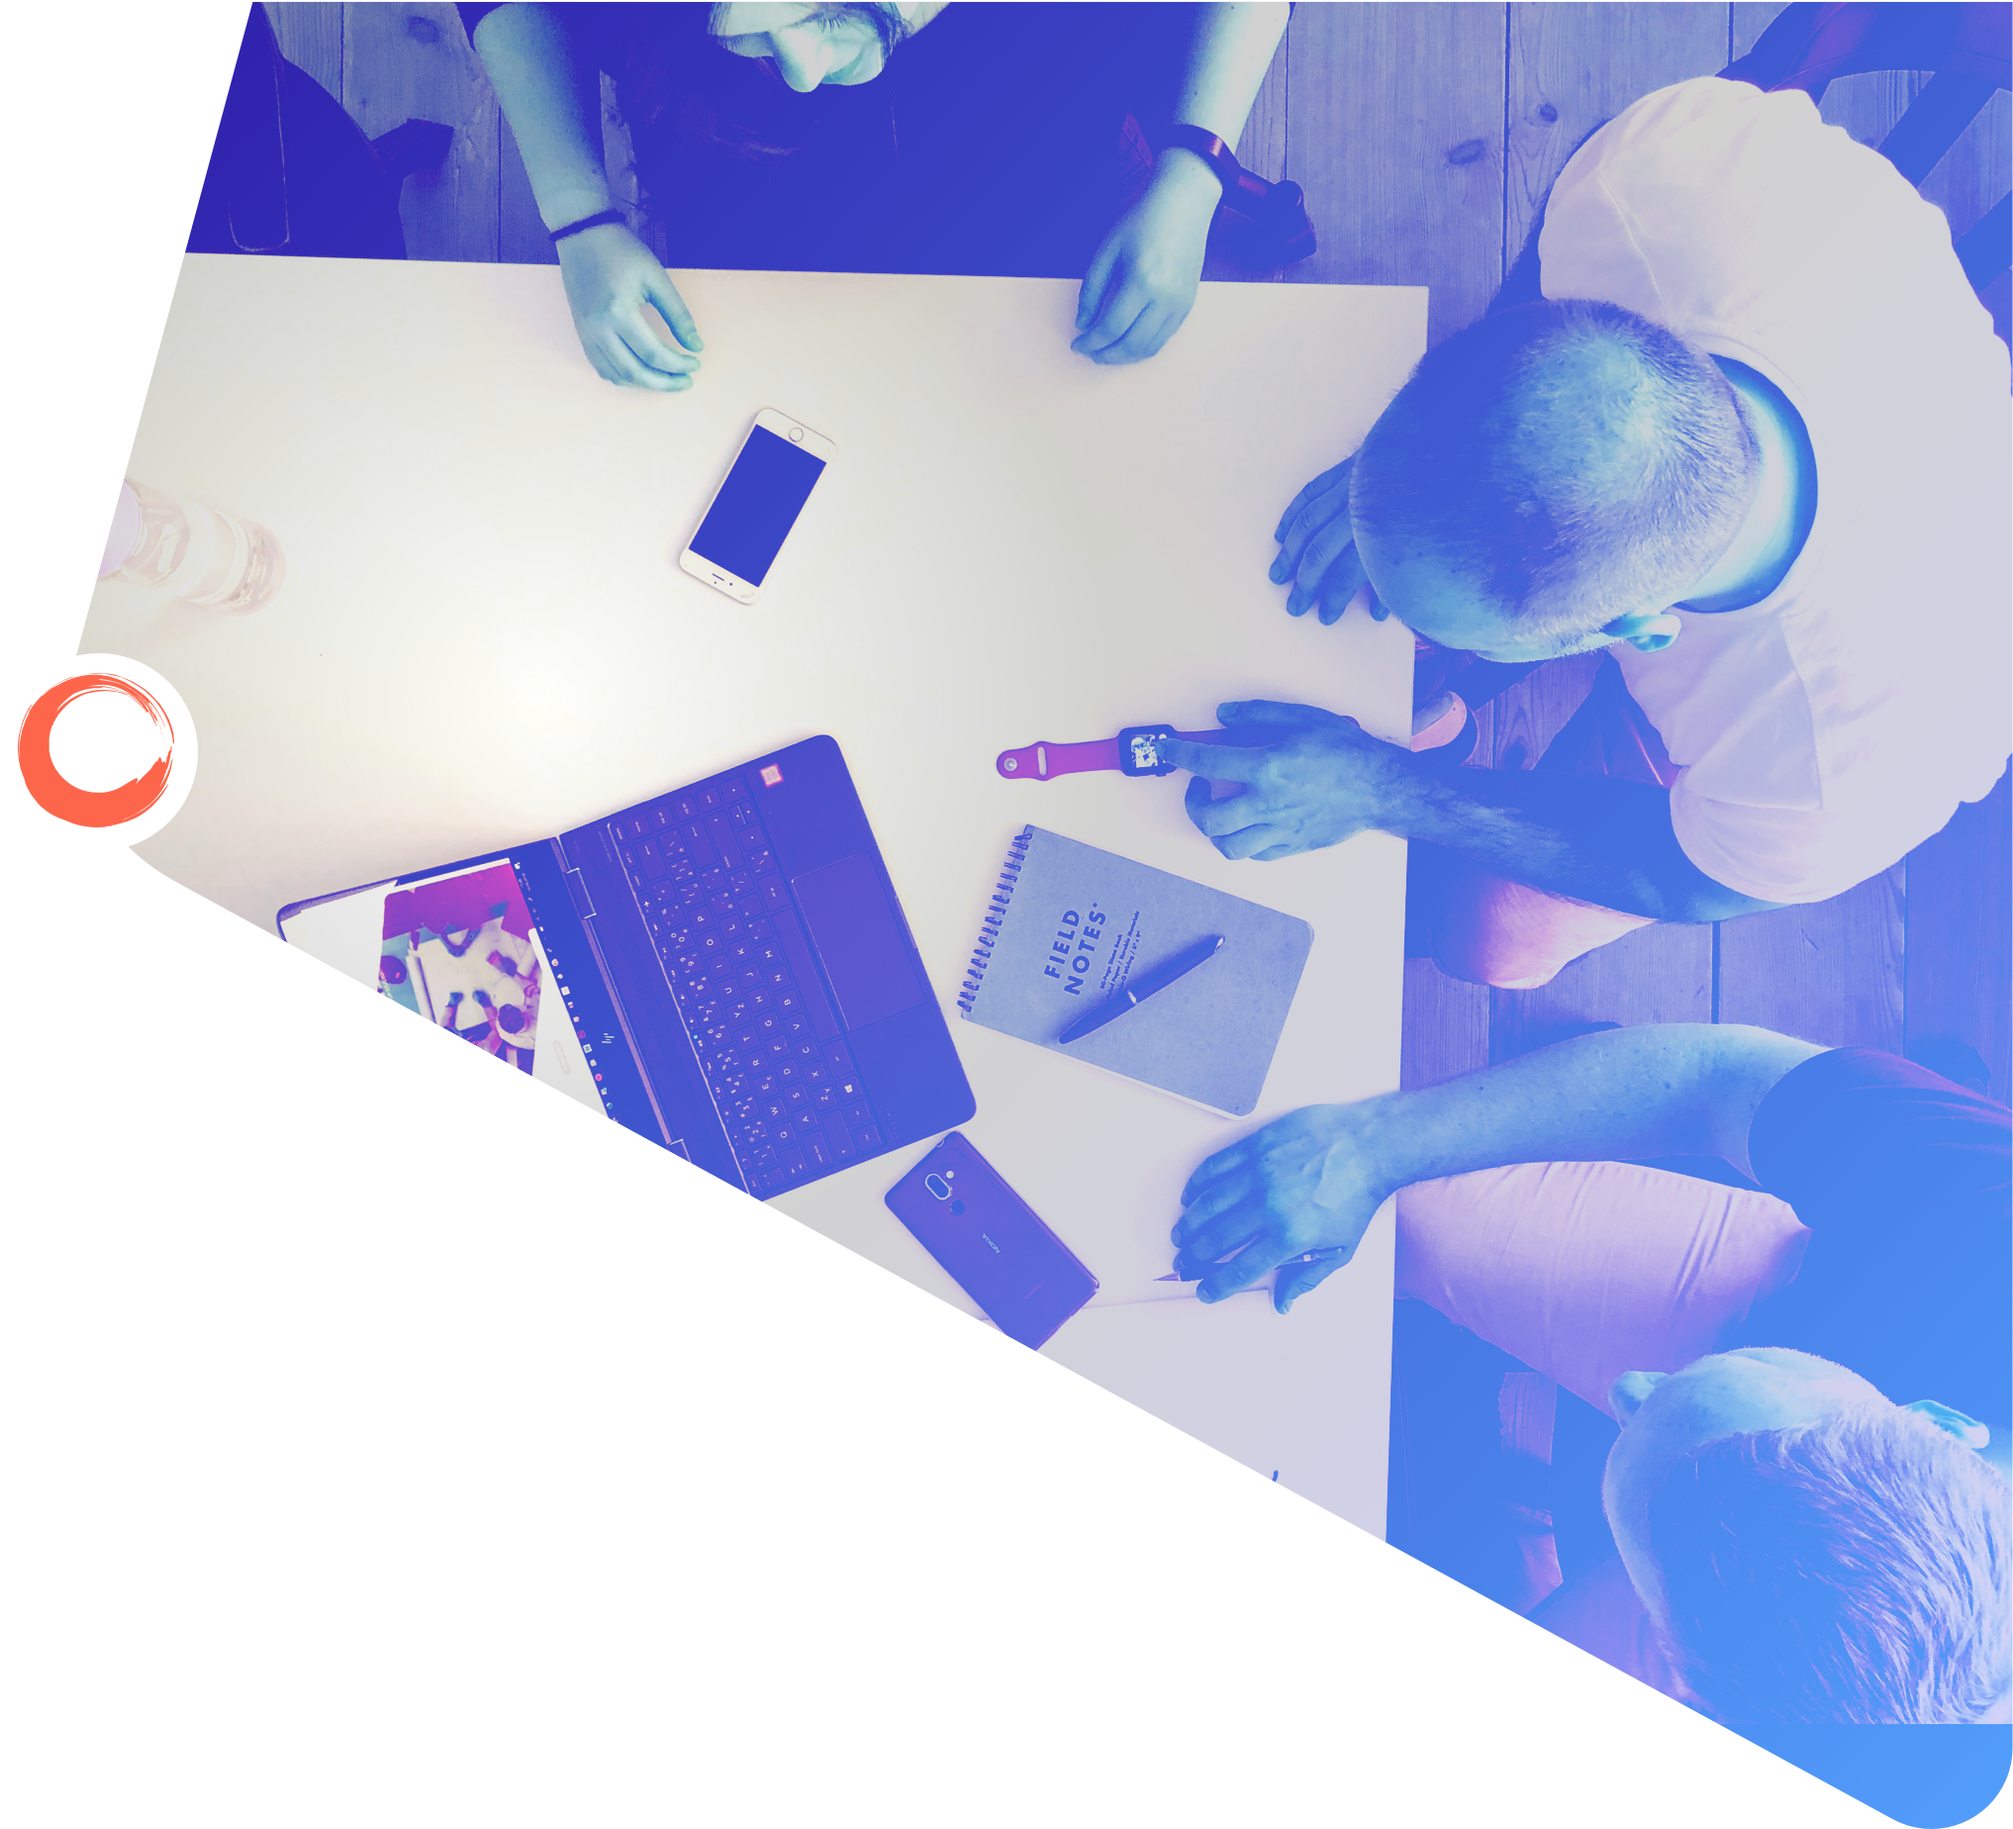
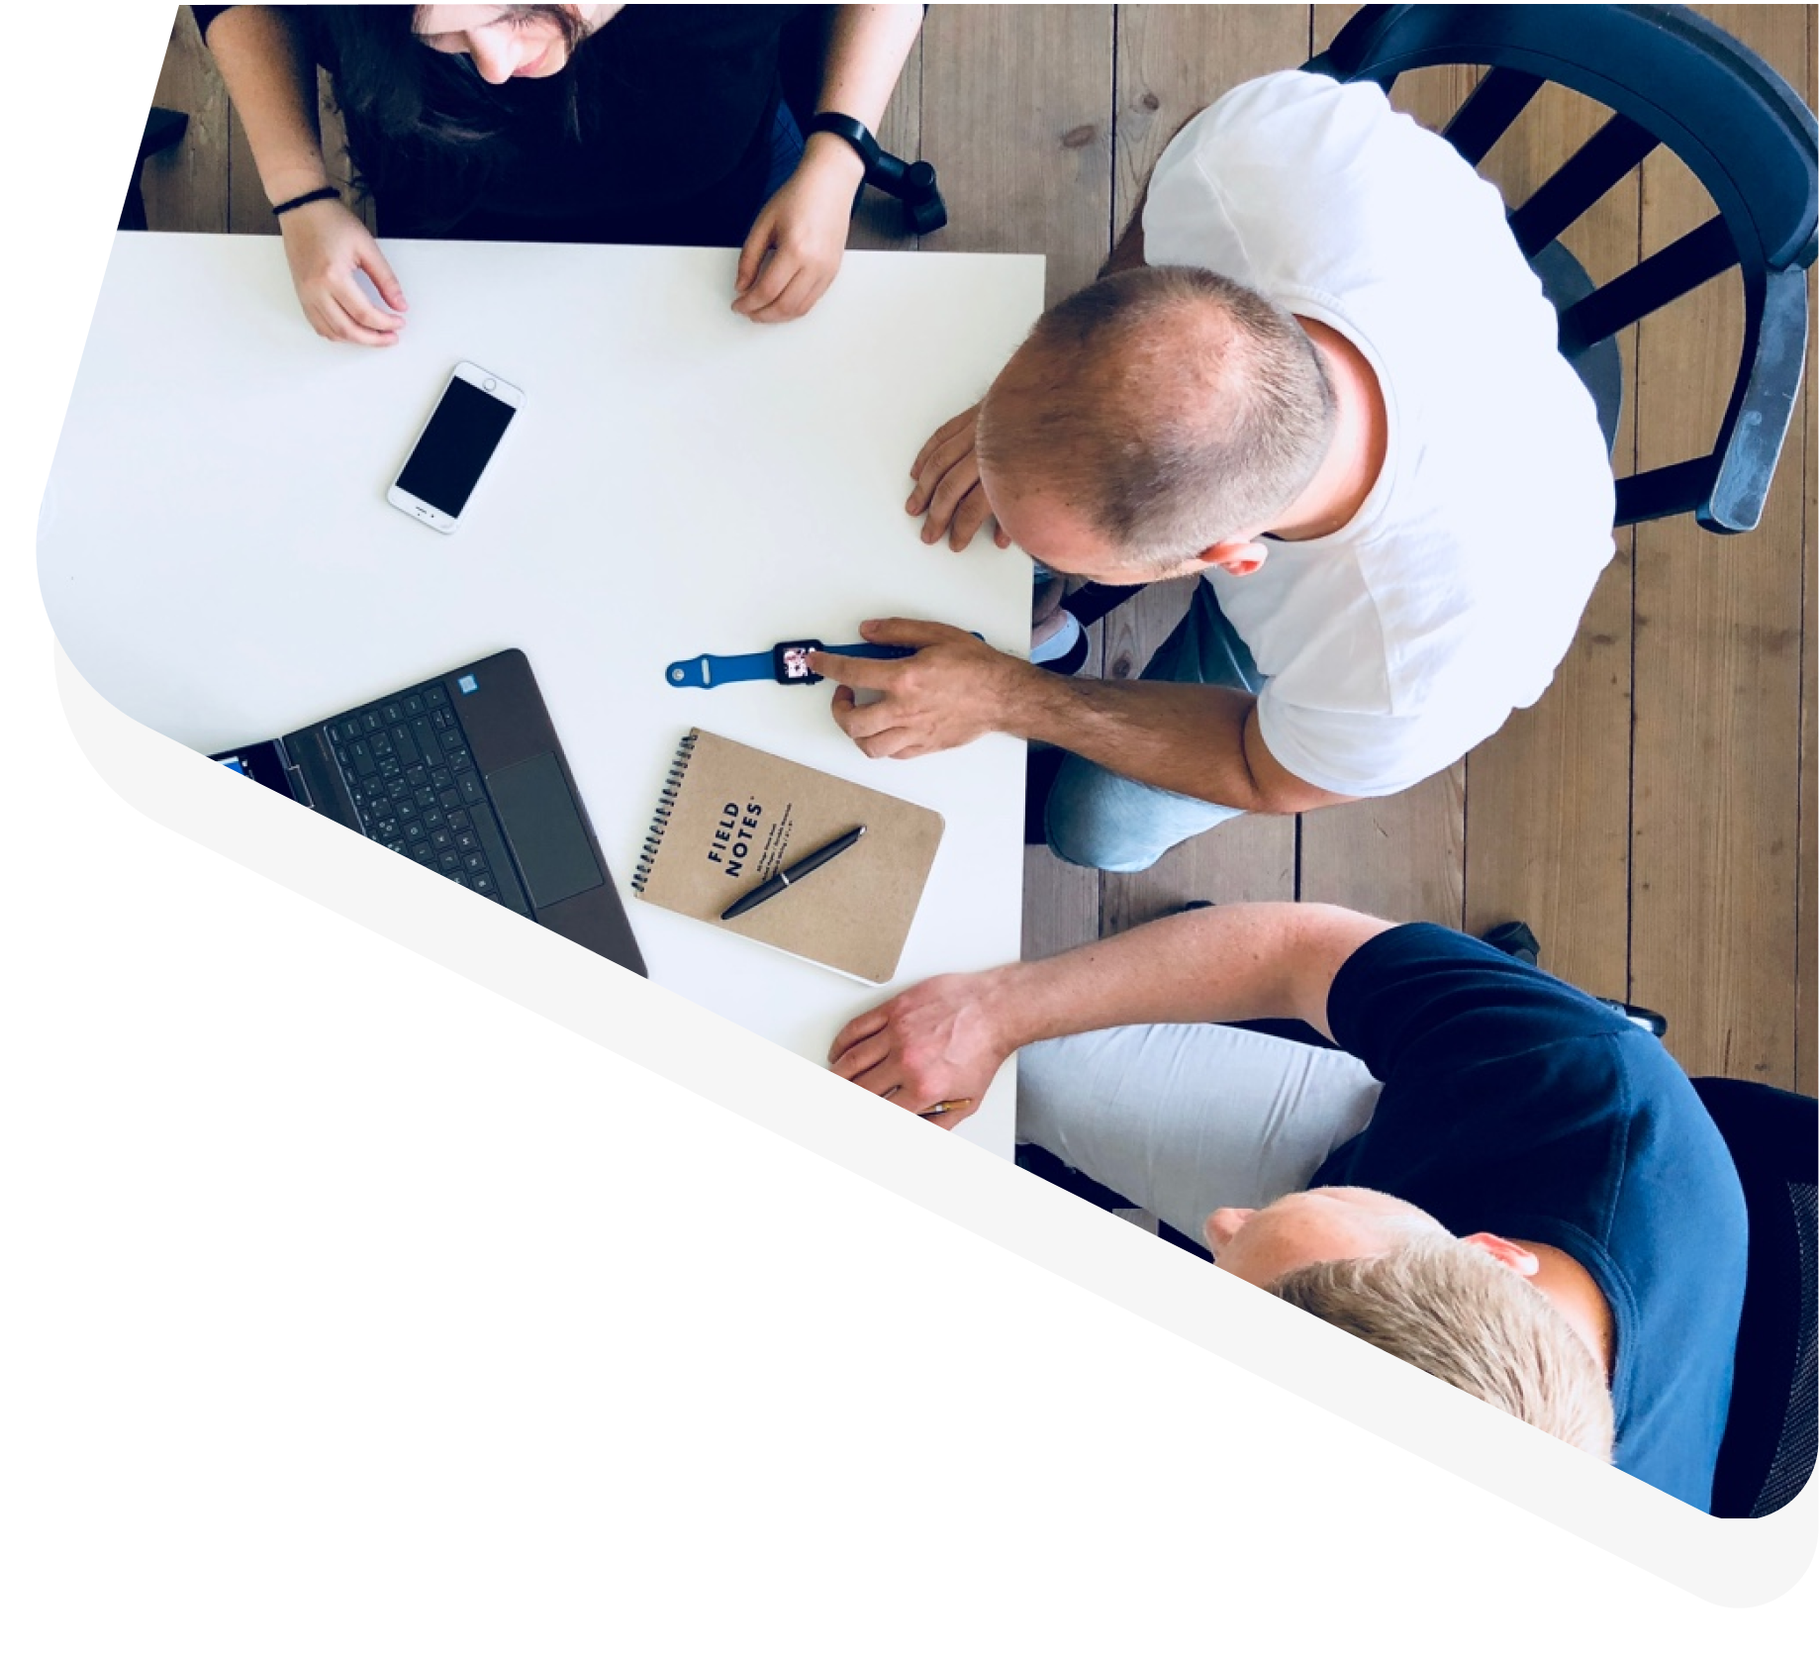
Background image for "our process" section and image cleanup

diff --git a/www.topmonks.com/src/stylesheets/hp/funnel.scss b/www.topmonks.com/src/stylesheets/hp/funnel.scss
@@ -11,6 +11,13 @@
       margin-right: -24px;
     }
   }
+  @media screen and (min-width: 840px) {
+    background: url("https://res.cloudinary.com/topmonks/image/upload/w_903,dpr_auto,q_auto,f_auto/v1553775999/topmonks.com/bgnd_funnel.png") no-repeat left calc(50% - 500px) top 230px;
+    background-size: 903px auto;
+  }
+  @media screen and (min-width: 840px) and (min-device-pixel-ratio: 2), screen and (min-width: 840px) and (min-resolution: 192dpi), screen and (min-width: 840px) and (min-resolution: 2dppx) {
+    background-image: url("https://res.cloudinary.com/topmonks/image/upload/w_903,dpr_2,q_auto,f_auto/v1553775999/topmonks.com/bgnd_funnel.png");
+  }
 
   .steps {
     padding: 0;
@@ -22,7 +29,7 @@
       padding-bottom: 50px;
       background: url("/images/bgnd_funnel_product.svg") left calc(25% - 22px) bottom no-repeat, url("/images/bgnd_funnel.svg") left calc(25% - 22px) top no-repeat;
     }
-    @media screen and (min-width: 879px){
+    @media screen and (min-width: 840px){
       padding-left: calc(50% - 37px);
       background-position:  center bottom, center top;
     }
